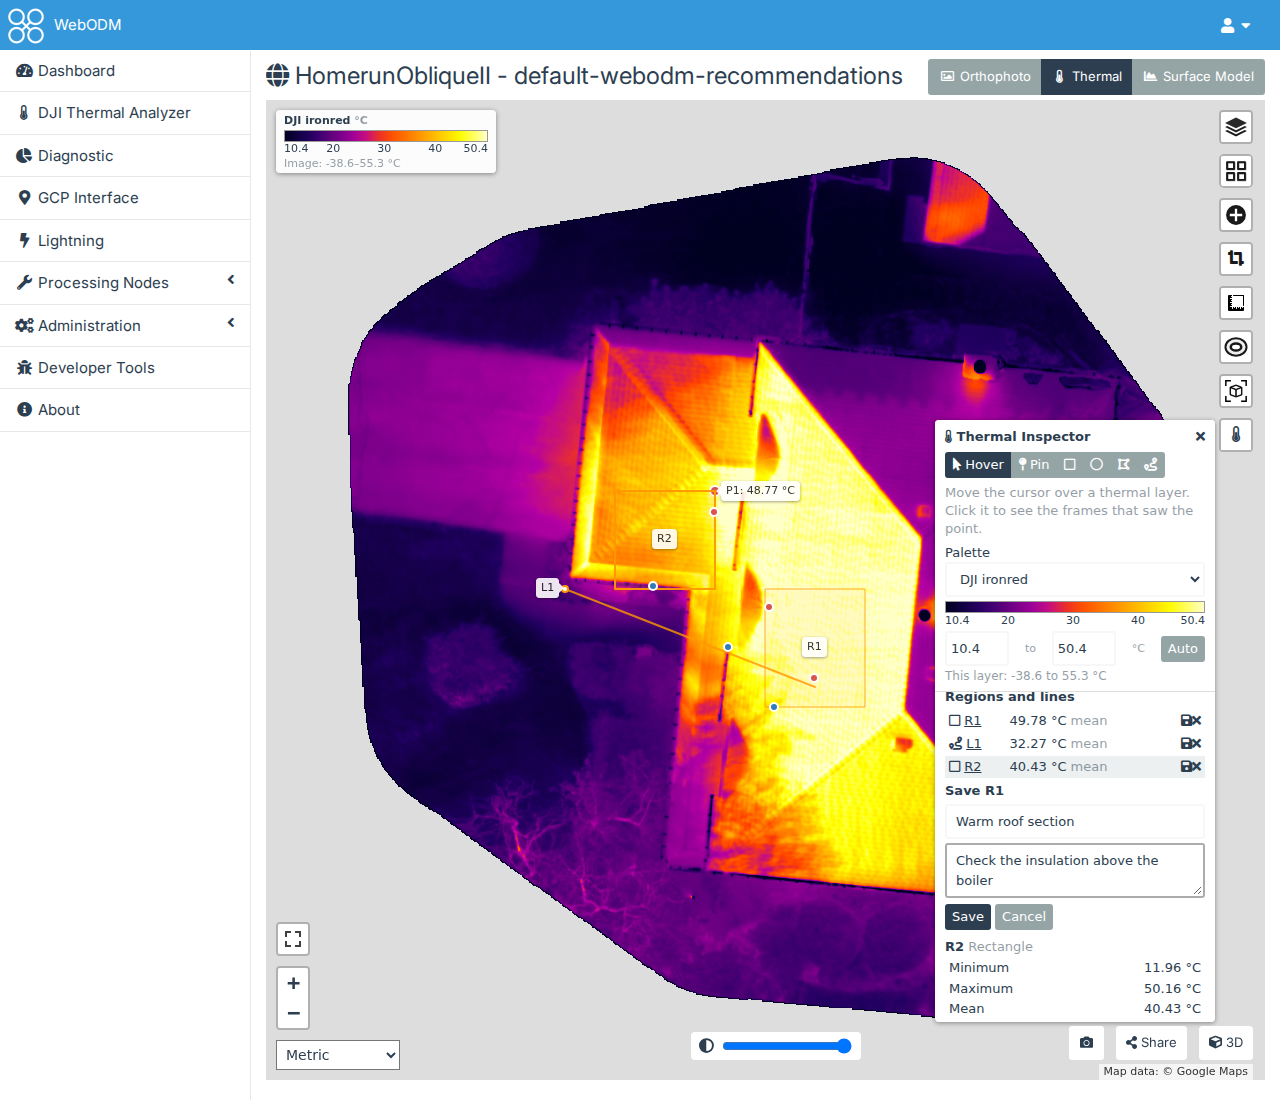
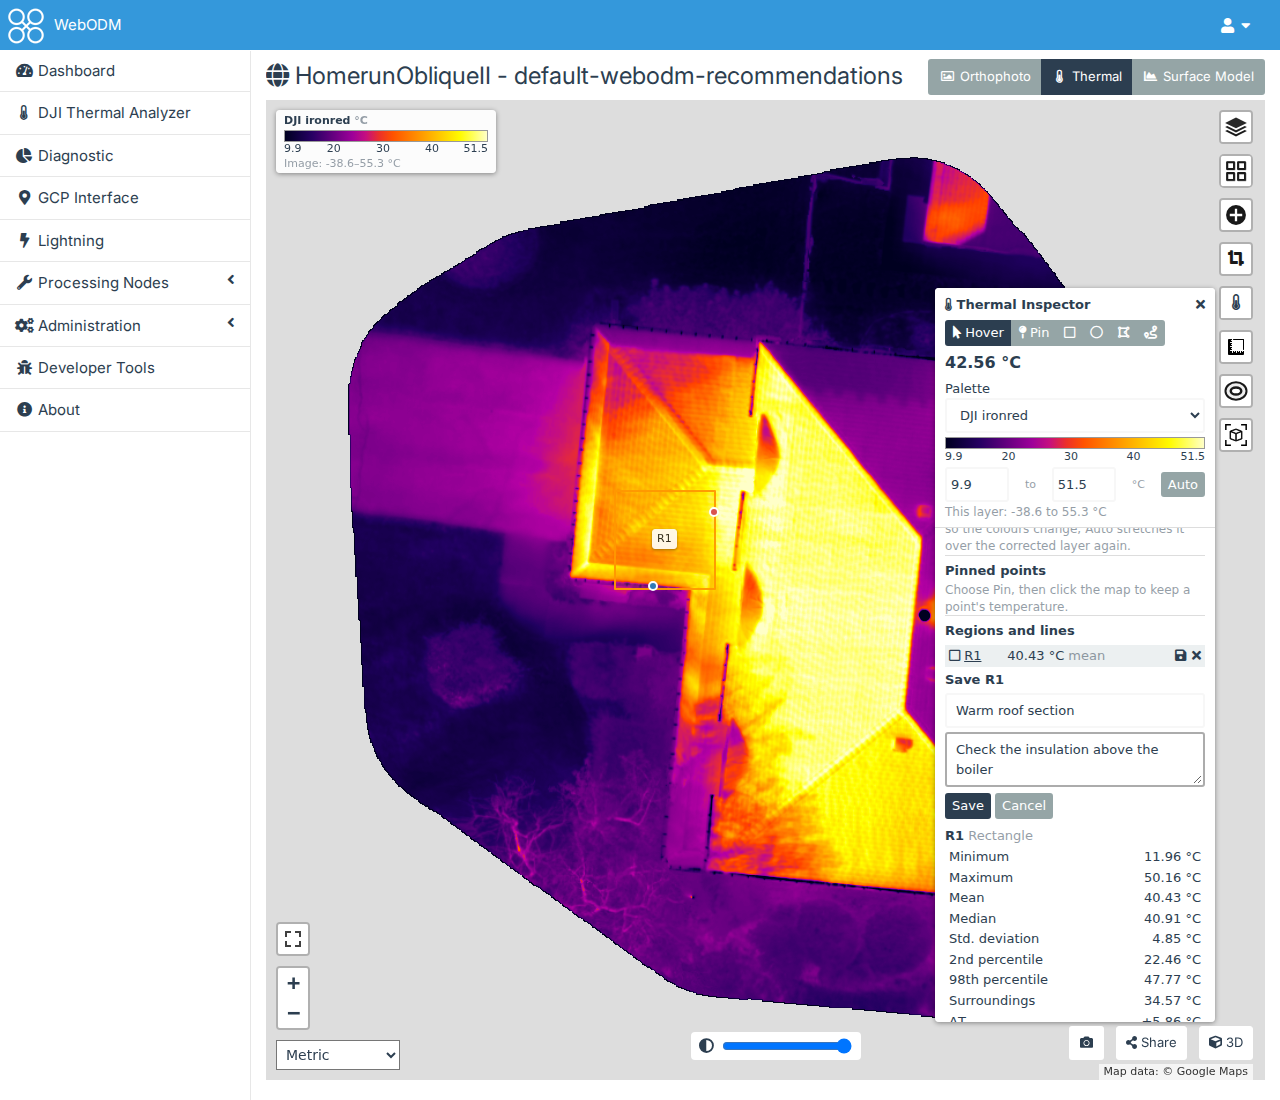
Thermal Inspector: a correction keeps the colour scale's temperatures, so the map's colours change with it
Emissivity and Reflected in Manual Corrections changed only the numbers shown: each layer's range is kept in its own
values, so the legend's labels moved and the colours stayed. Now each layer the correction changes gets the range
whose corrected temperatures are those the scale showed; Auto stretches it over the corrected layer again.

Changed region(s): [[0.5312, 0.2473, 0.9688, 0.9273], [0.4062, 0.4327, 0.4688, 0.5564]]

diff --git a/dji-thermal/public/inspector.js b/dji-thermal/public/inspector.js
@@ -11,7 +11,8 @@
 // frames window) beside the panel, on a mosaic and on an orthophoto processed from a workset's TIFFs. Pins, regions
 // and lines can be saved, named, with what they measured, for everyone who can view the project (kept with the task or
 // the workset: measurements.py); and the temperatures corrected for another emissivity and reflected temperature
-// (correction.py's model, from what each layer was measured with), the numbers only: the map's colours stay.
+// (correction.py's model, from what each layer was measured with): a correction changed keeps each layer's colour scale
+// at the temperatures it shows, so the colours change with it.
 (function (root) {
     var API = "/api/plugins/dji-thermal/";
     var HOVER_MS = 80;              // the readout asks for the point the cursor rests on, not every point it crosses
@@ -438,6 +439,12 @@
         var g = gainOffset(fix), w = (Math.pow(celsius + KELVIN, 4) - g.offset) / g.gain;
         return Math.pow(Math.max(w, 0), 0.25) - KELVIN;
     }
+    // A layer's range (its own values, °C) for another correction: the same temperatures shown, null when it can't be
+    function keptRange(range, from, to) {
+        if (!range) return null;
+        var out = range.map(function (c) { return Math.round(uncorrected(corrected(c, from), to) * 1e4) / 1e4; });
+        return isFinite(out[0]) && isFinite(out[1]) && out[1] > out[0] ? out : null;
+    }
     // An isotherm's limits (temperatures as shown, corrected) as a layer's own values, for its tiles
     function rawIsotherm(iso, fix) {
         if (!fix || !validIsotherm(iso)) return iso;
@@ -466,7 +473,7 @@
             (typeof c.reflected === "number" ? roundShown(c.reflected, unit) : "") + '"> <span class="text-muted">°' + unit + "</span></label></div>" +
             (notice ? '<div class="text-warning dt-inspector-hint">' + escapeHtml(notice) + "</div>" : "") + measured +
             '<div class="text-muted dt-inspector-hint">Approximate (a broadband model): for comparing surfaces, not calibrated values. ' +
-            "The temperatures shown change; the map's colours don't.</div>";
+            "The colour scale keeps its temperatures, so the colours change; Auto stretches it over the corrected layer again.</div>";
     }
 
     // The legend: the palette's colours (encoded, as the palette API gives them) over the range (°C), its ends marked
@@ -1110,7 +1117,15 @@
                     return render();
                 }
             }
+            var before = thermalLayers(map, true).map(function (t) { return {t: t, fix: fixFor(t)}; });
             state.correction = c;
+            // Each layer corrected otherwise keeps the temperatures its scale shows, so its colours change
+            before.forEach(function (b) {
+                var fix = fixFor(b.t);
+                if (fixKey(fix) === fixKey(b.fix)) return;
+                var range = keptRange(layerRange(b.t) || layerExtent(b.t), b.fix, fix);
+                if (range) setLook(b.t, range, layerAdjust(b.t));
+            });
             correctionChanged();
         }
 
@@ -2210,7 +2225,7 @@
                panelHtml: panelHtml, hasThermal: hasThermal, projectOf: projectOf, linkedMosaic: linkedMosaic, paletteKey: paletteKey,
                mosaicRange: mosaicRange, laidMosaic: laidMosaic, mosaicValuesUrl: mosaicValuesUrl, isothermStyle: isothermStyle, valuesUrl: valuesUrl,
                framesSource: framesSource, fromCelsius: fromCelsius, corrected: corrected, uncorrected: uncorrected,
-               rawIsotherm: rawIsotherm, correctionHtml: correctionHtml, loadCorrection: loadCorrection, correctionKey: correctionKey,
+               rawIsotherm: rawIsotherm, keptRange: keptRange, correctionHtml: correctionHtml, loadCorrection: loadCorrection, correctionKey: correctionKey,
                savedHtml: savedHtml, savedCsv: savedCsv, savedGeoJson: savedGeoJson, formHtml: formHtml, pinsHtml: pinsHtml,
                mosaicsHtml: mosaicsHtml, toCelsius: toCelsius, movable: movable, adjustOf: adjustOf, autoRange: autoRange,
                scaleHtml: scaleHtml, imageHtml: imageHtml, create: create};

diff --git a/dji-thermal/public/__tests__/inspector.test.js b/dji-thermal/public/__tests__/inspector.test.js
@@ -523,6 +523,16 @@ describe("the Thermal Inspector's saved measurements and correction", () => {
         map.remove();
     });
 
+    it("keeps a range's temperatures as shown when the correction changes, in the layer's own values", () => {
+        const from = {wanted: {emissivity: 0.8, reflected: 21}, baseline: BASELINE}, to = {wanted: {emissivity: 0.6, reflected: 40}, baseline: BASELINE};
+        const kept = inspector.keptRange([10, 40], from, to);
+        kept.forEach((c, i) => expect(inspector.corrected(c, to)).toBeCloseTo(inspector.corrected([10, 40][i], from), 3));
+        // Off again: the layer's own values are the temperatures shown
+        expect(inspector.keptRange(kept, to, null).map(c => Number(c.toFixed(2))))
+            .toEqual([10, 40].map(c => Number(inspector.corrected(c, from).toFixed(2))));
+        expect(inspector.keptRange(null, from, to)).toBe(null);
+    });
+
     it("corrects the temperatures shown from what the layer was measured with, measuring the regions again", async () => {
         const map = leafletMap();
         const {ins, fetchFn, panel, plugins} = start(map, {
@@ -552,6 +562,14 @@ describe("the Thermal Inspector's saved measurements and correction", () => {
         const want = model(30, 0.8, 21, 0.91, 21);
         expect(panel().querySelector("[data-pin]").textContent).toContain(want.toFixed(2) + " °C");
         expect(JSON.parse(window.localStorage.getItem(inspector.correctionKey(["abc-1"])))).toEqual({on: true, emissivity: 0.8, reflected: 21});
+        // The colour scale keeps the temperatures it shows, so the layer is drawn over others of its own values
+        expect(panel().querySelector('[data-act="range-min"]').value).toBe("10");
+        expect(panel().querySelector('[data-act="range-max"]').value).toBe("40");
+        const layer = Object.values(map._layers).find(l => l._url && l._url.indexOf("orthophoto/tiles") >= 0);
+        const rescale = /rescale=([^&]+)/.exec(layer._url)[1].split(",").map(Number);
+        const fix = {wanted: {emissivity: 0.8, reflected: 21}, baseline: BASELINE};
+        expect(rescale[0]).toBeCloseTo(inspector.uncorrected(10, fix), 3);
+        expect(rescale[1]).toBeCloseTo(inspector.uncorrected(40, fix), 3);
         change(panel().querySelector('[data-act="correction-emissivity"]'), "1.5");
         expect(panel().textContent).toContain("The emissivity is between 0.1 and 1");
         expect(ins.state.correction.emissivity).toBe(0.8);

diff --git a/upcoming-changes.md b/upcoming-changes.md
@@ -5,6 +5,17 @@
 **Up next**
 - **The user's testing and polishing** (2026-10-30): bugs and polish they report go here, each fixed on its own
   branch. Publishing 1.0.0 waits for it.
+  - Done: **bug, the Thermal Inspector's Manual Corrections: Emissivity and Reflected change nothing on the map**
+    (the user, 2026-11-01: "no visible impact on the image. Something's amiss"), `fix-correction-colours`. The
+    correction changed only the numbers shown: a layer's range is kept in its own values, so the scale's labels
+    moved and the colours stayed (dji-thermal-cli and the frame page's Measure again were checked and apply both).
+    Decided (the user): the colour scale **keeps the temperatures it shows**, so the colours change; Auto stretches
+    it over the corrected layer again. `inspector.js` (`keptRange`, `correctionInput` sets each corrected layer's
+    range), its note; README, `quickstart-inspector.md` section 7; screenshot `inspector-saved` retaken.
+    `inspector.test.js` (2). Jest 240, ESLint, Ruff (one earlier Jest run under load had 2 failures, not seen in
+    three runs since). Live on ThermalTest (read only): emissivity 0.6 kept 15–42.8 °C and changed the tiles'
+    pixels, reflected 60 °C again, Auto went to −32.6–26.1 °C with a picture close to the first, unticking kept
+    that scale.
   - Done: **bug, a task's dataset shows as a second task** (the user, 2026-11-01, with a screenshot of Test project on the
     Dashboard): "I clicked "Thermal dataset" on the ThermalTest task here. I then and added images, converted mosaics
     etc... however it seems to have created a new task in my Test Project instead of linking to the existing

diff --git a/README.md b/README.md
@@ -310,7 +310,8 @@ Inspector:
   another emissivity and reflected temperature than the photos were measured with, from what each layer records: an orthophoto's TIFFs (the values dji-thermal-cli wrote
   in them), a workset mosaic's settings or its frames. It is approximate (a broadband model, the air's transmission
   taken as 1), for comparing surfaces, not calibrated values. The readout, pins, regions, lines, the legend's marks
-  and the isotherm's limits change; the map's colours don't. A layer that doesn't record its values (an orthophoto
+  and the isotherm's limits change, and the colour scale keeps the temperatures it shows, so the map's colours change
+  with the correction (Auto stretches the scale over the corrected layer again). A layer that doesn't record its values (an orthophoto
   not made from the plugin's TIFFs) isn't corrected, and the panel says so. Kept in your browser for the same tasks;
   unticking it forgets the values and closes the fields.
 - **Palette**: the thermal layer's palette, from the same list as the Analyzer's: DJI's palettes (drawn by the

diff --git a/docs/quickstart-inspector.md b/docs/quickstart-inspector.md
@@ -154,7 +154,9 @@ layer was measured with, and the panel lists what each layer on the map was meas
 
 - the readout, pins, regions and lines show corrected temperatures (the regions are measured again);
 - the legend's marks are corrected temperatures, and the isotherm's limits are too;
-- the map's colours stay as they are.
+- the colour scale keeps the temperatures it shows (say 20 to 40 °C), so the map's colours change with the
+  correction. **Auto** stretches the scale over the corrected layer again, which looks much like it did before: a
+  correction moves every temperature the same way, so a fixed scale is what shows the difference.
 
 The correction is approximate: a broadband model, with the air's transmission taken as 1, as at drone distances.
 It's for comparing surfaces, not for calibrated values; for exact values, make a workset with the measurement
